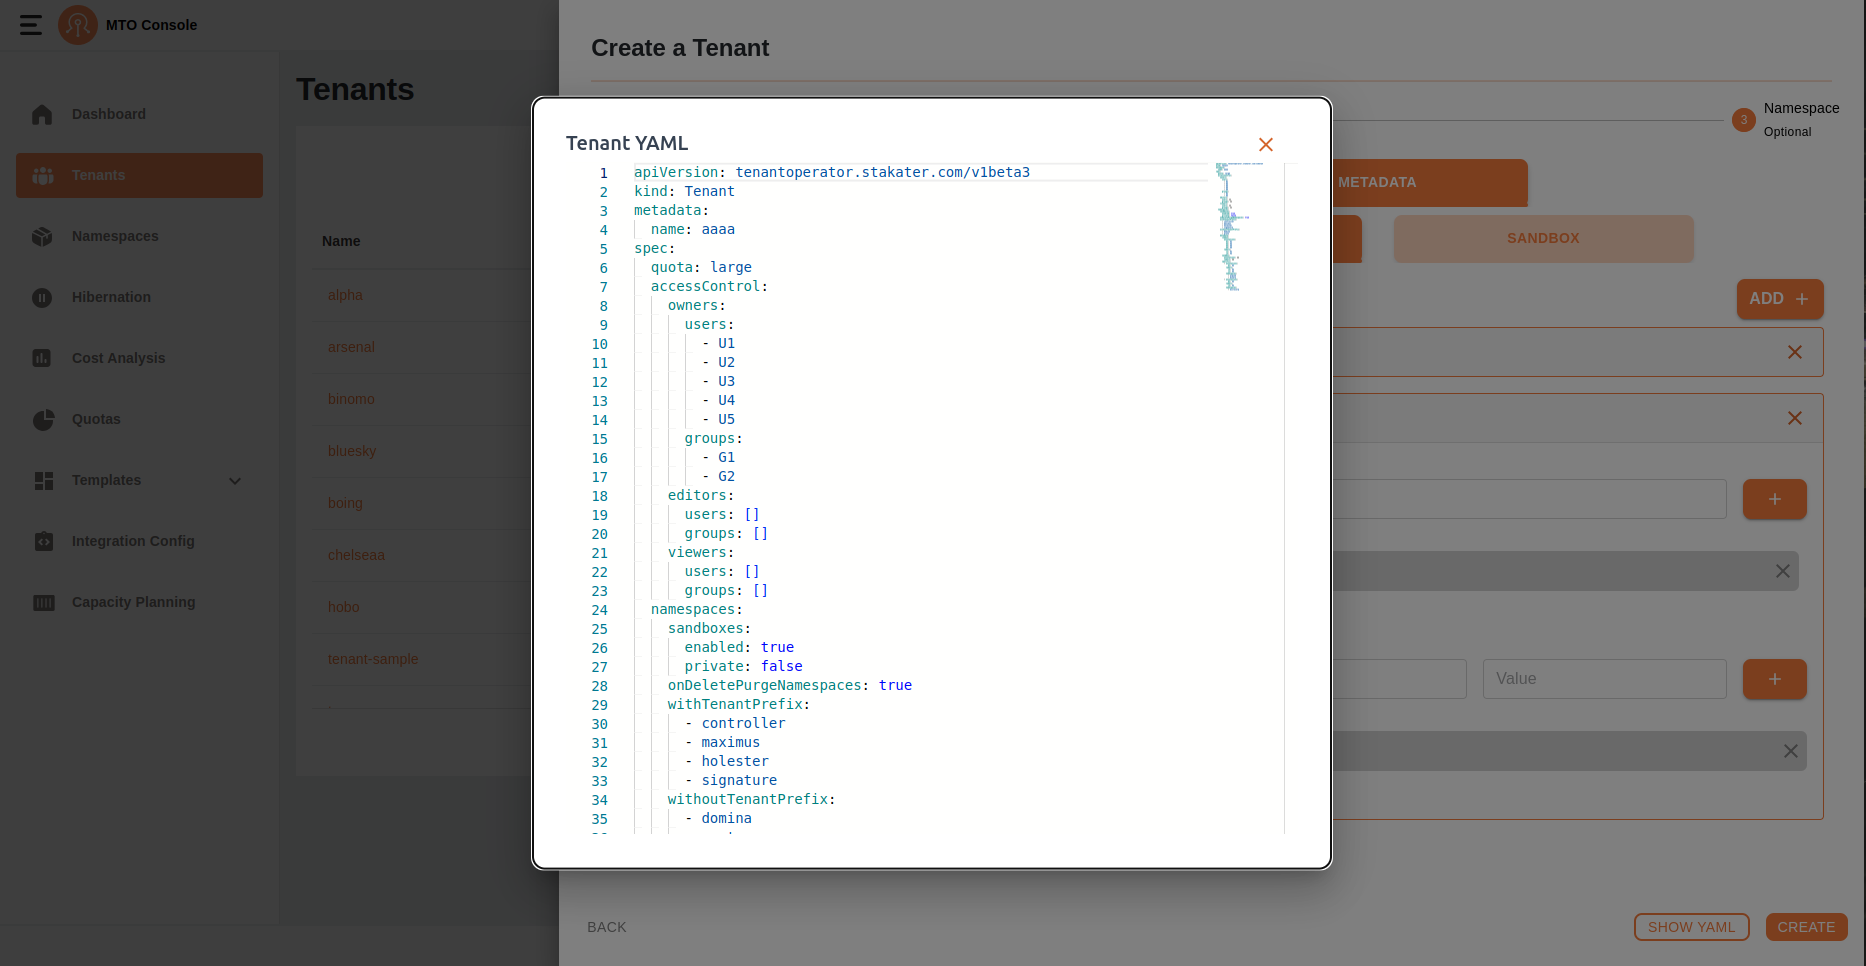
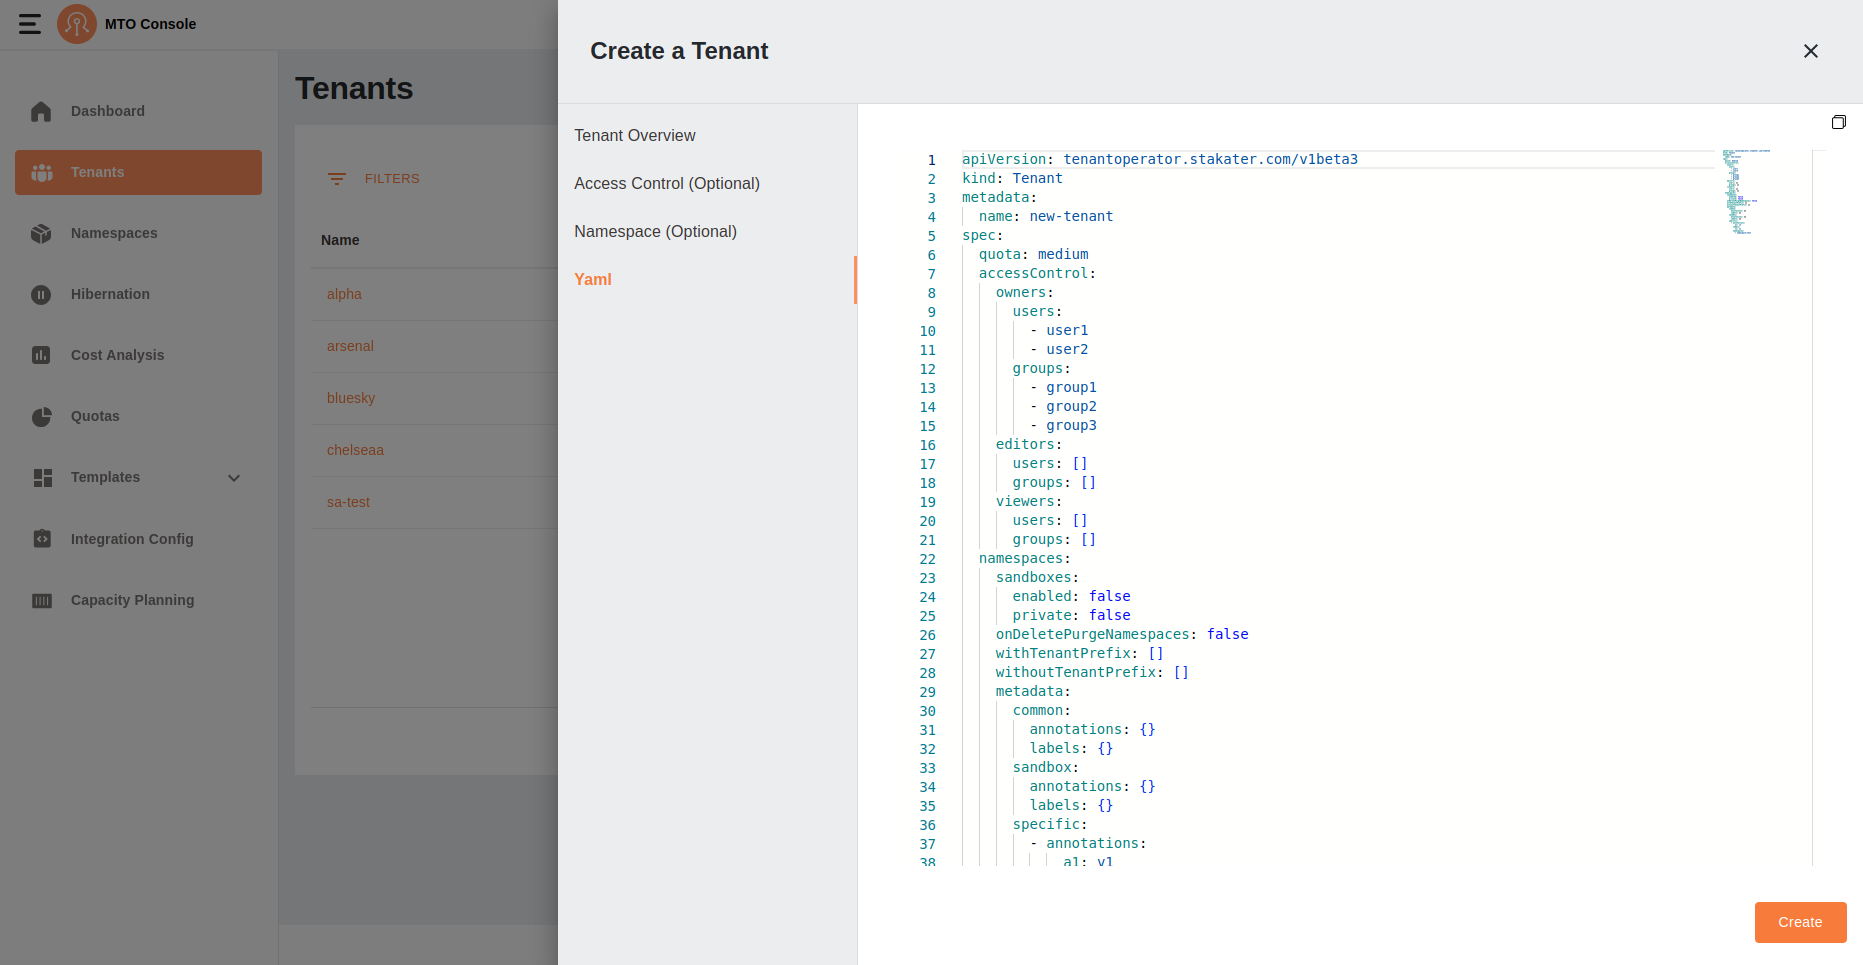
Update tenant creation documentation and images
- Revised the tenant creation process description to clarify the interface and steps.
- Updated button terminology from "Next" to "Create" for consistency.
- Added new images for tenant overview, access control, and namespace sections.
- Removed outdated images related to previous steps in the tenant creation process.
- Enhanced error handling and validation criteria explanations.

diff --git a/content/console/tenants.md b/content/console/tenants.md
@@ -81,13 +81,13 @@ This detailed view provides users with in-depth insights into resource utilizati
 
 ## Create Tenant
 
-The tenant creation process involves a three-step drawer interface. This document outlines the validation checks and the criteria for progressing through these steps.
+The tenant creation process involves a drawer interface with a sidebar navigation. This document outlines the validation checks and the criteria for progressing through tenant creation.
 
-### Step 1: Enter Primary Info
+### Tenant Overview
 
-![tenantCreationStep1](../images/tenantCreationStep1.png)
+![tenantOverview](../images/tenantOverview.png)
 
-The first step in creating a tenant is to provide a name for the tenant. Users must ensure the tenant name meets the specified criteria. The Next button remains disabled until the entered tenant name passes validation and a quota is selected.
+The name of the tenant is an important requirement in tenant creation process. Users must ensure the tenant name meets the specified criteria. The Create button remains disabled until the entered tenant name passes validation and a quota is selected.
 
 #### Validation Criteria
 
@@ -102,52 +102,32 @@ The first step in creating a tenant is to provide a name for the tenant. Users m
 
 - Uniqueness Check
     - The tenant name must be unique.
-    - When tenant name is entered and user stops typing the tenant name is verified of its uniqueness through an API call to the backend for confirmation that the name does not already exist. If the name is unique the Next button is enabled and user can click on it. If the name is already taken, an error is displayed, and the user must choose a different name.
+    - When tenant name is entered and user stops typing the tenant name is verified of its uniqueness through an API call to the backend for confirmation that the name does not already exist. If the name is unique the Create button is enabled and user can click on it. If the name is already taken, an error is displayed, and the user must choose a different name.
 
 ### Quota Details
 
-The selected quota defines resource limits for the tenant. Example quota details are shown in JSON format as well as a toggle button to view them as YAML:
+The selected quota defines resource limits for the tenant.
 
-```yaml
-resourcequota:
-  hard:
-    configmaps: '50'
-    requests.cpu: '50'
-    requests.memory: 5Gi
-    secrets: '50'
-    services: '050'
-    services.loadbalancers: '1'
-limitrange:
-  limits:
-    - type: Pod
-      max:
-        cpu: '1'
-        memory: 1Gi
-      min:
-        cpu: 100m
-        memory: 50Mi
-```
+### Enabling the Create Button
 
-### Enabling the Next Button
-
-The Next button becomes enabled only when
+The Create button becomes enabled only when
     - The entered tenant name passes both regex validation and the uniqueness check.
     - A quota is selected from the dropdown menu.
 
 ### Error Handling
 
-Error Handling on step 1 is based on the following factors
+Error Handling on tenant overview is based on the following factors
 
 - If the tenant name fails regex validation, an inline error message indicates the naming rule.
 - If the tenant name already exists, the user is prompted to enter a new name.
 
-### Step 2: Access Control (Optional)
+### Access Control (Optional)
 
-![tenantCreationStep2](../images/tenantCreationStep2.png)
+![tenantAccessControl](../images/tenantAccessControl.png)
 
-The second step allows users to configure access control for the tenant. This step is optional and provides three tabs for managing user roles: Owners, Editors, and Viewers.
+This section allows users to configure access control for the tenant. This section is optional and provides three tabs for managing user roles: Owners, Editors, and Viewers.
 
-If the user has some data entered into the step 2 section tabs, the skip option will be disabled. Otherwise, user can perform skip action by clicking on the Skip button.
+The user can either enter some data in each tab or choose to skip this section.
 
 ### Input Fields and Listing Behavior
 
@@ -163,27 +143,27 @@ If the user has some data entered into the step 2 section tabs, the skip option 
 
 ### Key Features
 
-- Optional Configuration: Users can skip this step by clicking the Skip button.
+- Optional Configuration: Users can skip this section.
 - Filtering: As users type into the input fields, existing values matching the input are shown as suggestions for quick selection.
 - Add New Values: If the entered value is not in the existing list, users can add it by confirming the input.
 - Scroll Support: The lists have scroll view, ensuring all entries are accessible even when the list grows long.
 
-### Navigating to the Next Step
+### Navigating to the Namespace (Optional) section
 
-- Users can proceed to the next step by clicking the Next button.
-- The Next button is always enabled for this step as it is optional.
+- Users can proceed to the namespace section by selecting the Namespace (Optional) in navigation item in sidebar.
+- The Create button is always enabled for this section as it is optional.
 
 ### Error Handling
 
-No specific validations are required for this step since it is optional. However, users can remove or adjust entries as needed using the provided interface.
+No specific validations are required for this section since it is optional. However, users can remove or adjust entries as needed using the provided interface.
 
-### Step 3: Namespace (Optional)
+### Namespace (Optional)
 
-The third step allows users to optionally configure namespaces and metadata for the tenant. This step consists of two tabs:
+This section allows users to optionally configure namespaces and metadata for the tenant. This section consists of two tabs:
 
 ### Namespace
 
-![tenantCreationStep3NamespaceTab](../images/tenantCreationStep3NamespaceTab.png)
+![tenantNamespaceTab](../images/tenantNamespaceTab.png)
 
 - Toggles:
     - Enable Sandbox: Activates the sandbox environment for the tenant.
@@ -203,20 +183,20 @@ The third step allows users to optionally configure namespaces and metadata for 
 
 ### Metadata
 
-The Metadata tab is divided into three sub-tabs:
+The Metadata tab has 3 main sections:
 
 #### Common and Sandbox Tabs
 
-![tenantCreationStep3MetadataCommonSandboxTab](../images/tenantCreationStep3MetadataCommonSandboxTab.png)
+![tenantMetadataCommonSandboxTab](../images/tenantMetadataCommonSandboxTab.png)
 
-- Both tabs allow users to add annotations and labels using Key and Value input fields.
+- Both sections allow users to add annotations and labels using Key and Value input fields.
 - Inputs act as filters for existing values.
 - No validation is required for these fields.
 - Added annotations and labels are displayed in a scroll list with remove buttons ("X") for easy deletion.
 
 #### Specific Tab
 
-![tenantCreationStep3MetadataSpecificTab](../images/tenantCreationStep3MetadataSpecificTab.png)
+![tenantMetadataSpecificTab](../images/tenantMetadataSpecificTab.png)
 
 - Includes an Add Accordion button.
 - Each accordion contains the following fields:
@@ -227,7 +207,7 @@ The Metadata tab is divided into three sub-tabs:
 
 ### Key Features
 
-- Optional Configuration: Users can skip this step by clicking the Create button directly.
+- Optional Configuration: Users can skip this section.
 - Filtering and Validation:
     - Inputs filter data based on existing values.
     - Namespace inputs validate entries to ensure uniqueness.
@@ -247,13 +227,13 @@ The Metadata tab is divided into three sub-tabs:
 
 ![YAML](../images/YamlView.png)
 
-- A YAML representation of the configuration can be previewed using the **Show YAML** button before creation.
+- A YAML representation of the configuration can be previewed as user clicks on the last navigation item in the sidebar creation or update.
 
 ## Update Tenant
 
 User can click on the edit button in the table under the action items to open the drawer with all the pre-populated tenant configurations.
 
-The update process follows a similar flow to the create process. However, the key difference is that the **tenant name** in **Step-1** cannot be edited or updated. All other steps and configurations remain the same, allowing users to modify access control, namespaces, and metadata as needed.
+The update process follows a similar flow to the create process. However, the key difference is that the **tenant name** in **Tenant Overview** cannot be edited or updated. All other sections and configurations remain the same, allowing users to modify access control, namespaces, and metadata as needed.
 
 ## Delete Tenant
 
